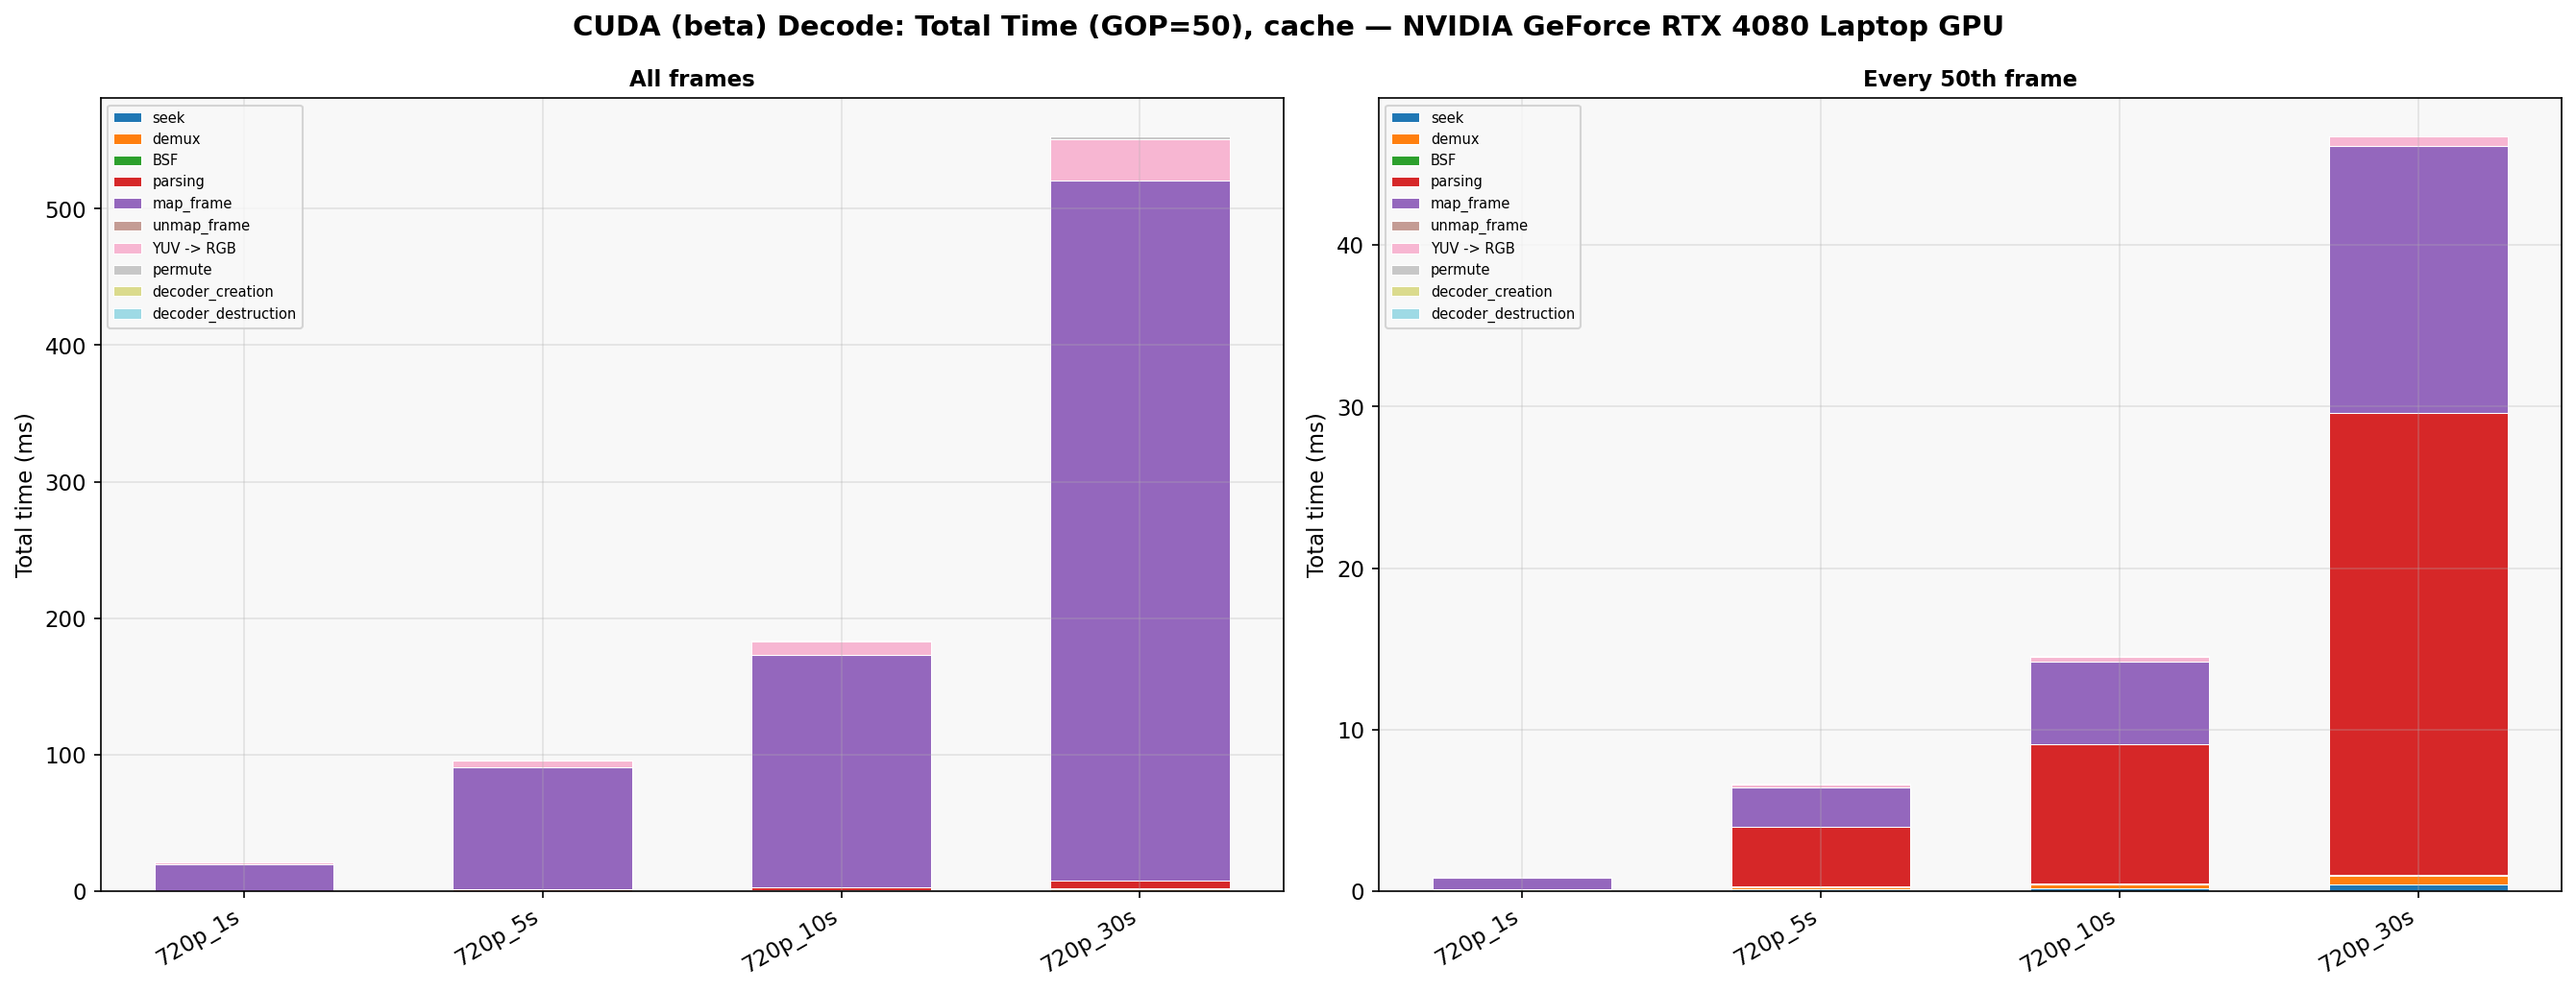
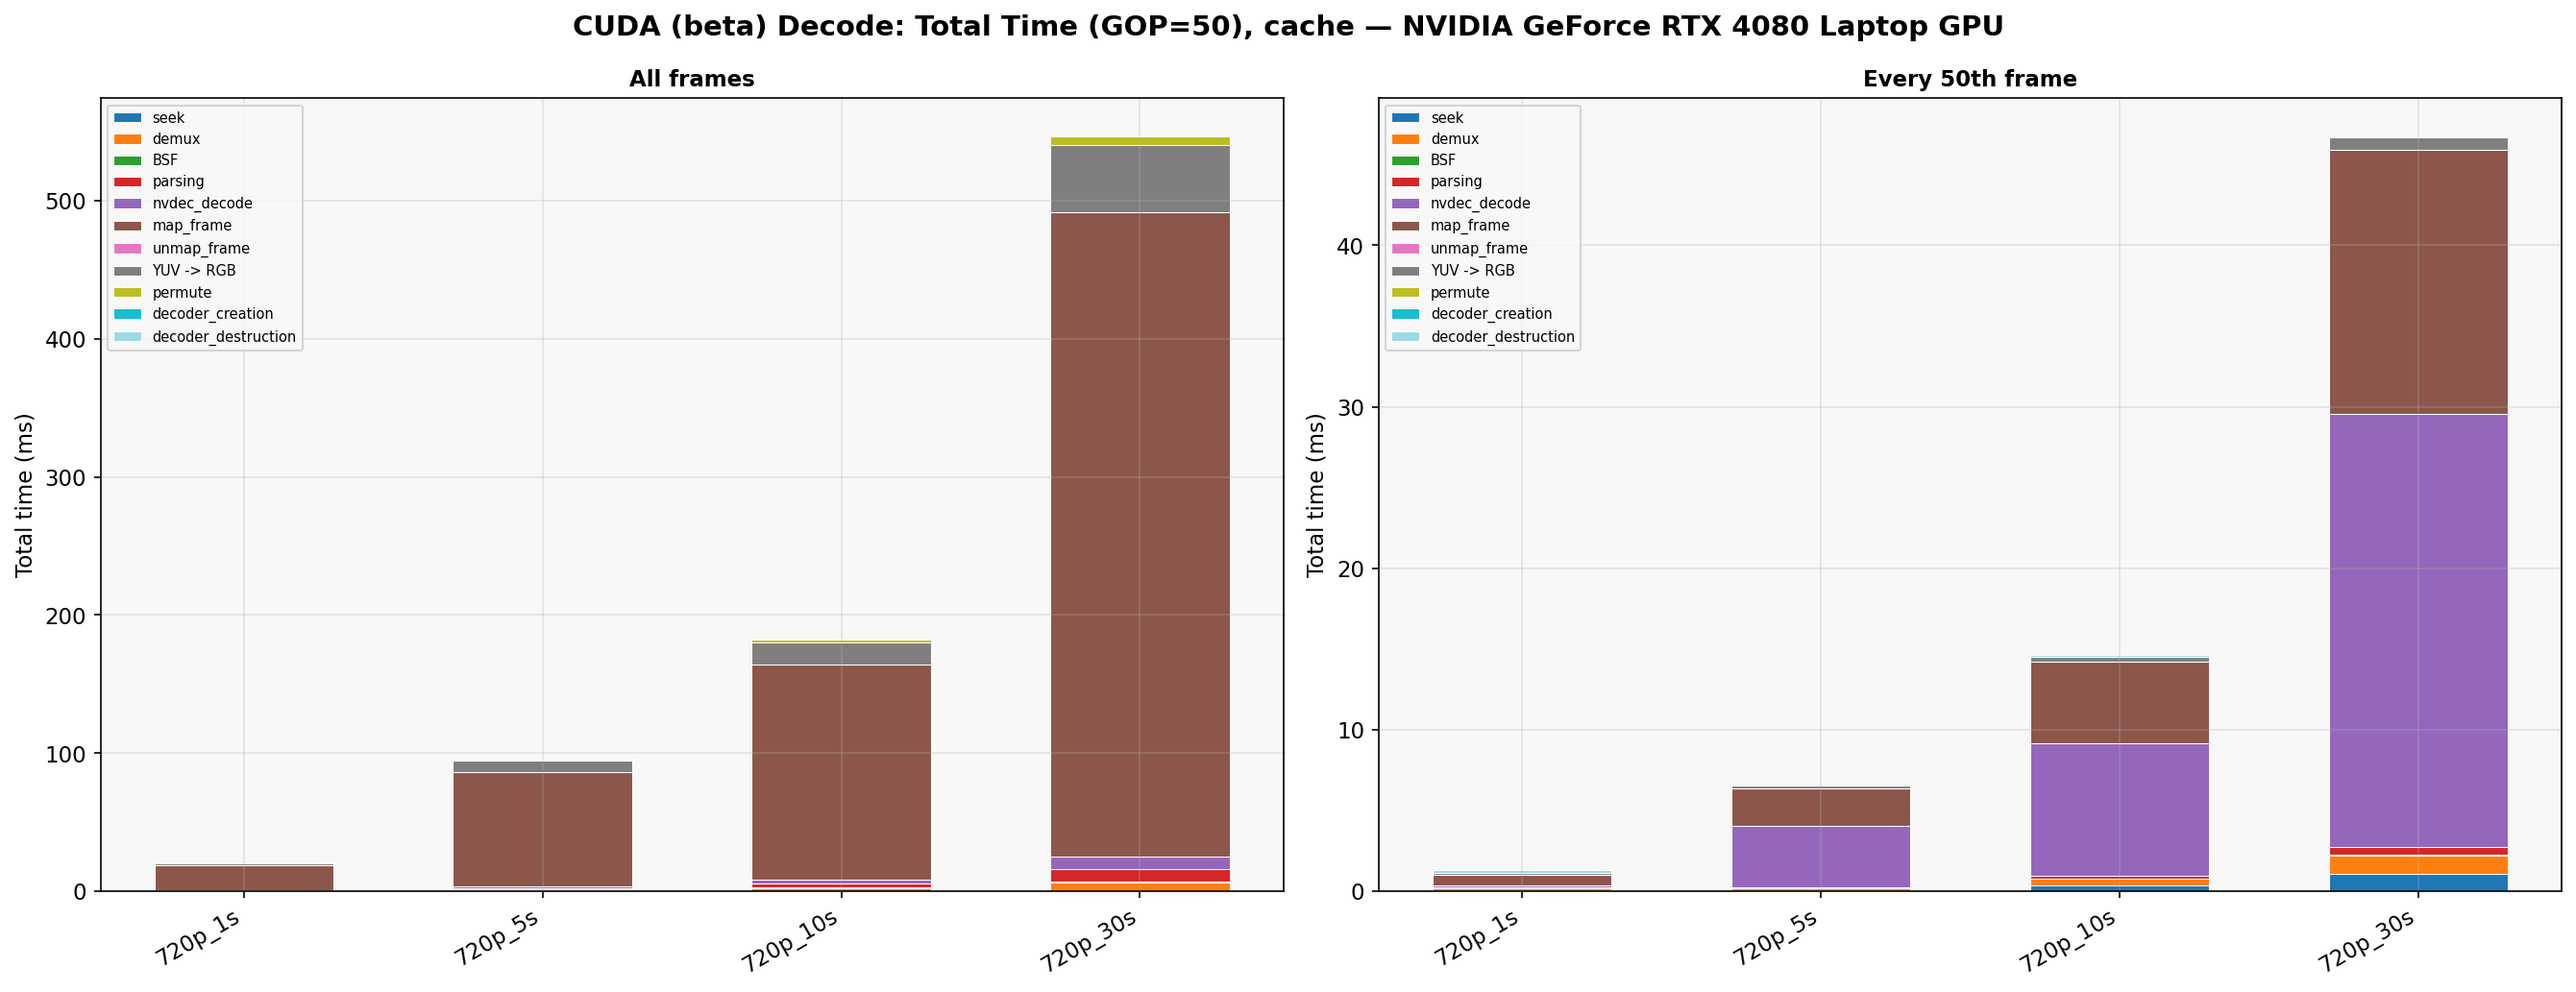
more fine grained

diff --git a/benchmarks/decoders/run_benchmark_suite.py b/benchmarks/decoders/run_benchmark_suite.py
@@ -26,15 +26,15 @@ CUDA_LEAF_CATEGORIES = {
     "seek": "seek",
     "demux": "demux",
     "bitstream_filter": "BSF",
-    # packet_parse_and_decode includes the nvdec_decode callback, but
-    # nvdec_decode (cuvidDecodePicture) is non-blocking so its measured time is
-    # just launch overhead — the real NVDEC wait is in map_frame.  We treat
-    # packet_parse_and_decode as a leaf representing "CPU-side parsing + trivial
-    # non-blocking decode submit".
-    # We exclude "decode" (parent of bitstream_filter + packet_parse_and_decode)
-    # and "nvdec_decode" (nested inside packet_parse_and_decode) to avoid
-    # double-counting.
-    "packet_parse_and_decode": "parsing",
+    # packet_parse_and_decode wraps cuvidParseVideoData which triggers
+    # nvdec_decode (cuvidDecodePicture) as a synchronous callback.
+    # We show both separately: "parsing" is computed as
+    # packet_parse_and_decode - nvdec_decode (pure CPU-side parsing),
+    # and "nvdec_decode" shows the cuvidDecodePicture time which may or
+    # may not block depending on NVDEC surface availability.
+    # We exclude "decode" (parent of BSF + packet_parse_and_decode).
+    "_parsing": "parsing",
+    "nvdec_decode": "nvdec_decode",
     "map_frame": "map_frame",
     "unmap_frame": "unmap_frame",
     "convert_avframe": "YUV -> RGB",
@@ -89,8 +89,8 @@ def ensure_test_videos(specs, gop):
     print()
 
 
-def _create_decoder(video_path, device, use_beta):
-    if use_beta:
+def _create_decoder(video_path, device):
+    if device.startswith("cuda"):
         with torchcodec.decoders.set_cuda_backend("beta"):
             return torchcodec.decoders.VideoDecoder(
                 video_path, device=device, seek_mode="approximate"
@@ -113,7 +113,7 @@ def _decode_frames(decoder, sampling, step):
         return len(indices)
 
 
-def run_one(video_path, device, use_beta=False, sampling="all", step=50,
+def run_one(video_path, device, sampling="all", step=50,
             warmup=False):
     """Run benchmark for a single video.
 
@@ -122,7 +122,7 @@ def run_one(video_path, device, use_beta=False, sampling="all", step=50,
         warmup: if True, run one untimed warmup iteration first (e.g. to warm the NVDEC cache).
     """
     if warmup:
-        decoder = _create_decoder(video_path, device, use_beta)
+        decoder = _create_decoder(video_path, device)
         _decode_frames(decoder, sampling, step)
         del decoder
 
@@ -132,7 +132,7 @@ def run_one(video_path, device, use_beta=False, sampling="all", step=50,
         ops.reset_benchmark()
         ops.enable_benchmark(True)
 
-        decoder = _create_decoder(video_path, device, use_beta)
+        decoder = _create_decoder(video_path, device)
         num_frames_decoded = _decode_frames(decoder, sampling, step)
         del decoder
 
@@ -152,6 +152,20 @@ def run_one(video_path, device, use_beta=False, sampling="all", step=50,
                 sum(v[1] for v in vals) // len(vals),
             )
     return averaged, num_frames_decoded
+
+
+def _add_synthetic_timers(results):
+    """Compute synthetic timer entries derived from raw C++ timers.
+
+    _parsing = packet_parse_and_decode - nvdec_decode (pure CPU-side parsing).
+    """
+    if "packet_parse_and_decode" in results and "nvdec_decode" in results:
+        parse_ms, parse_count = results["packet_parse_and_decode"]
+        nvdec_ms, _ = results["nvdec_decode"]
+        results["_parsing"] = (max(0, parse_ms - nvdec_ms), parse_count)
+    elif "packet_parse_and_decode" in results:
+        results["_parsing"] = results["packet_parse_and_decode"]
+    return results
 
 
 def _make_stacked_bar_pair(
@@ -393,6 +407,19 @@ def _leaf_total_ms(results, leaf_categories):
     return sum(results[k][0] for k in leaf_categories if k in results)
 
 
+def _print_breakdown(results, leaf_categories):
+    """Print total ms per leaf category."""
+    entries = []
+    for cpp_name, display_name in leaf_categories.items():
+        if cpp_name in results:
+            ms, count = results[cpp_name]
+            entries.append((display_name, ms, count))
+    entries.sort(key=lambda x: -x[1])
+    total = sum(ms for _, ms, _ in entries)
+    for name, ms, count in entries:
+        if ms >= 0.01:
+            print(f"      {name:25s} {ms:8.2f}ms  ({100*ms/total:5.1f}%)  count={count}")
+
 def main():
     parser = argparse.ArgumentParser(description="Benchmark torchcodec decoding pipeline")
     parser.add_argument(
@@ -463,6 +490,7 @@ def main():
             total = _leaf_total_ms(results, CPU_LEAF_CATEGORIES)
             fps = num_frames / (total / 1000) if total > 0 else 0
             print(f"{num_frames} frames, {total:.1f}ms, {fps:.0f} fps")
+            _print_breakdown(results, CPU_LEAF_CATEGORIES)
             cpu_all[label] = (results, num_frames)
 
         print(f"\nRunning CPU benchmarks (every {args.step} frames)...")
@@ -474,6 +502,7 @@ def main():
             total = _leaf_total_ms(results, CPU_LEAF_CATEGORIES)
             fps = num_frames / (total / 1000) if total > 0 else 0
             print(f"{num_frames} frames, {total:.1f}ms, {fps:.0f} fps")
+            _print_breakdown(results, CPU_LEAF_CATEGORIES)
             cpu_step[label] = (results, num_frames)
 
     if run_cuda:
@@ -486,23 +515,27 @@ def main():
         for label, path in videos:
             print(f"  CUDA {label}...", end=" ", flush=True)
             results, num_frames = run_one(
-                path, device="cuda:0", use_beta=True, warmup=use_cache,
+                path, device="cuda:0", warmup=use_cache,
             )
+            _add_synthetic_timers(results)
             total = _leaf_total_ms(results, CUDA_LEAF_CATEGORIES)
             fps = num_frames / (total / 1000) if total > 0 else 0
             print(f"{num_frames} frames, {total:.1f}ms, {fps:.0f} fps")
+            _print_breakdown(results, CUDA_LEAF_CATEGORIES)
             cuda_all[label] = (results, num_frames)
 
         print(f"\nRunning CUDA (beta) benchmarks (every {args.step} frames, {cache_label})...")
         for label, path in videos:
             print(f"  CUDA {label}...", end=" ", flush=True)
             results, num_frames = run_one(
-                path, device="cuda:0", use_beta=True, sampling="step",
+                path, device="cuda:0", sampling="step",
                 step=args.step, warmup=use_cache,
             )
+            _add_synthetic_timers(results)
             total = _leaf_total_ms(results, CUDA_LEAF_CATEGORIES)
             fps = num_frames / (total / 1000) if total > 0 else 0
             print(f"{num_frames} frames, {total:.1f}ms, {fps:.0f} fps")
+            _print_breakdown(results, CUDA_LEAF_CATEGORIES)
             cuda_step[label] = (results, num_frames)
 
     # --- Generate plots ---
